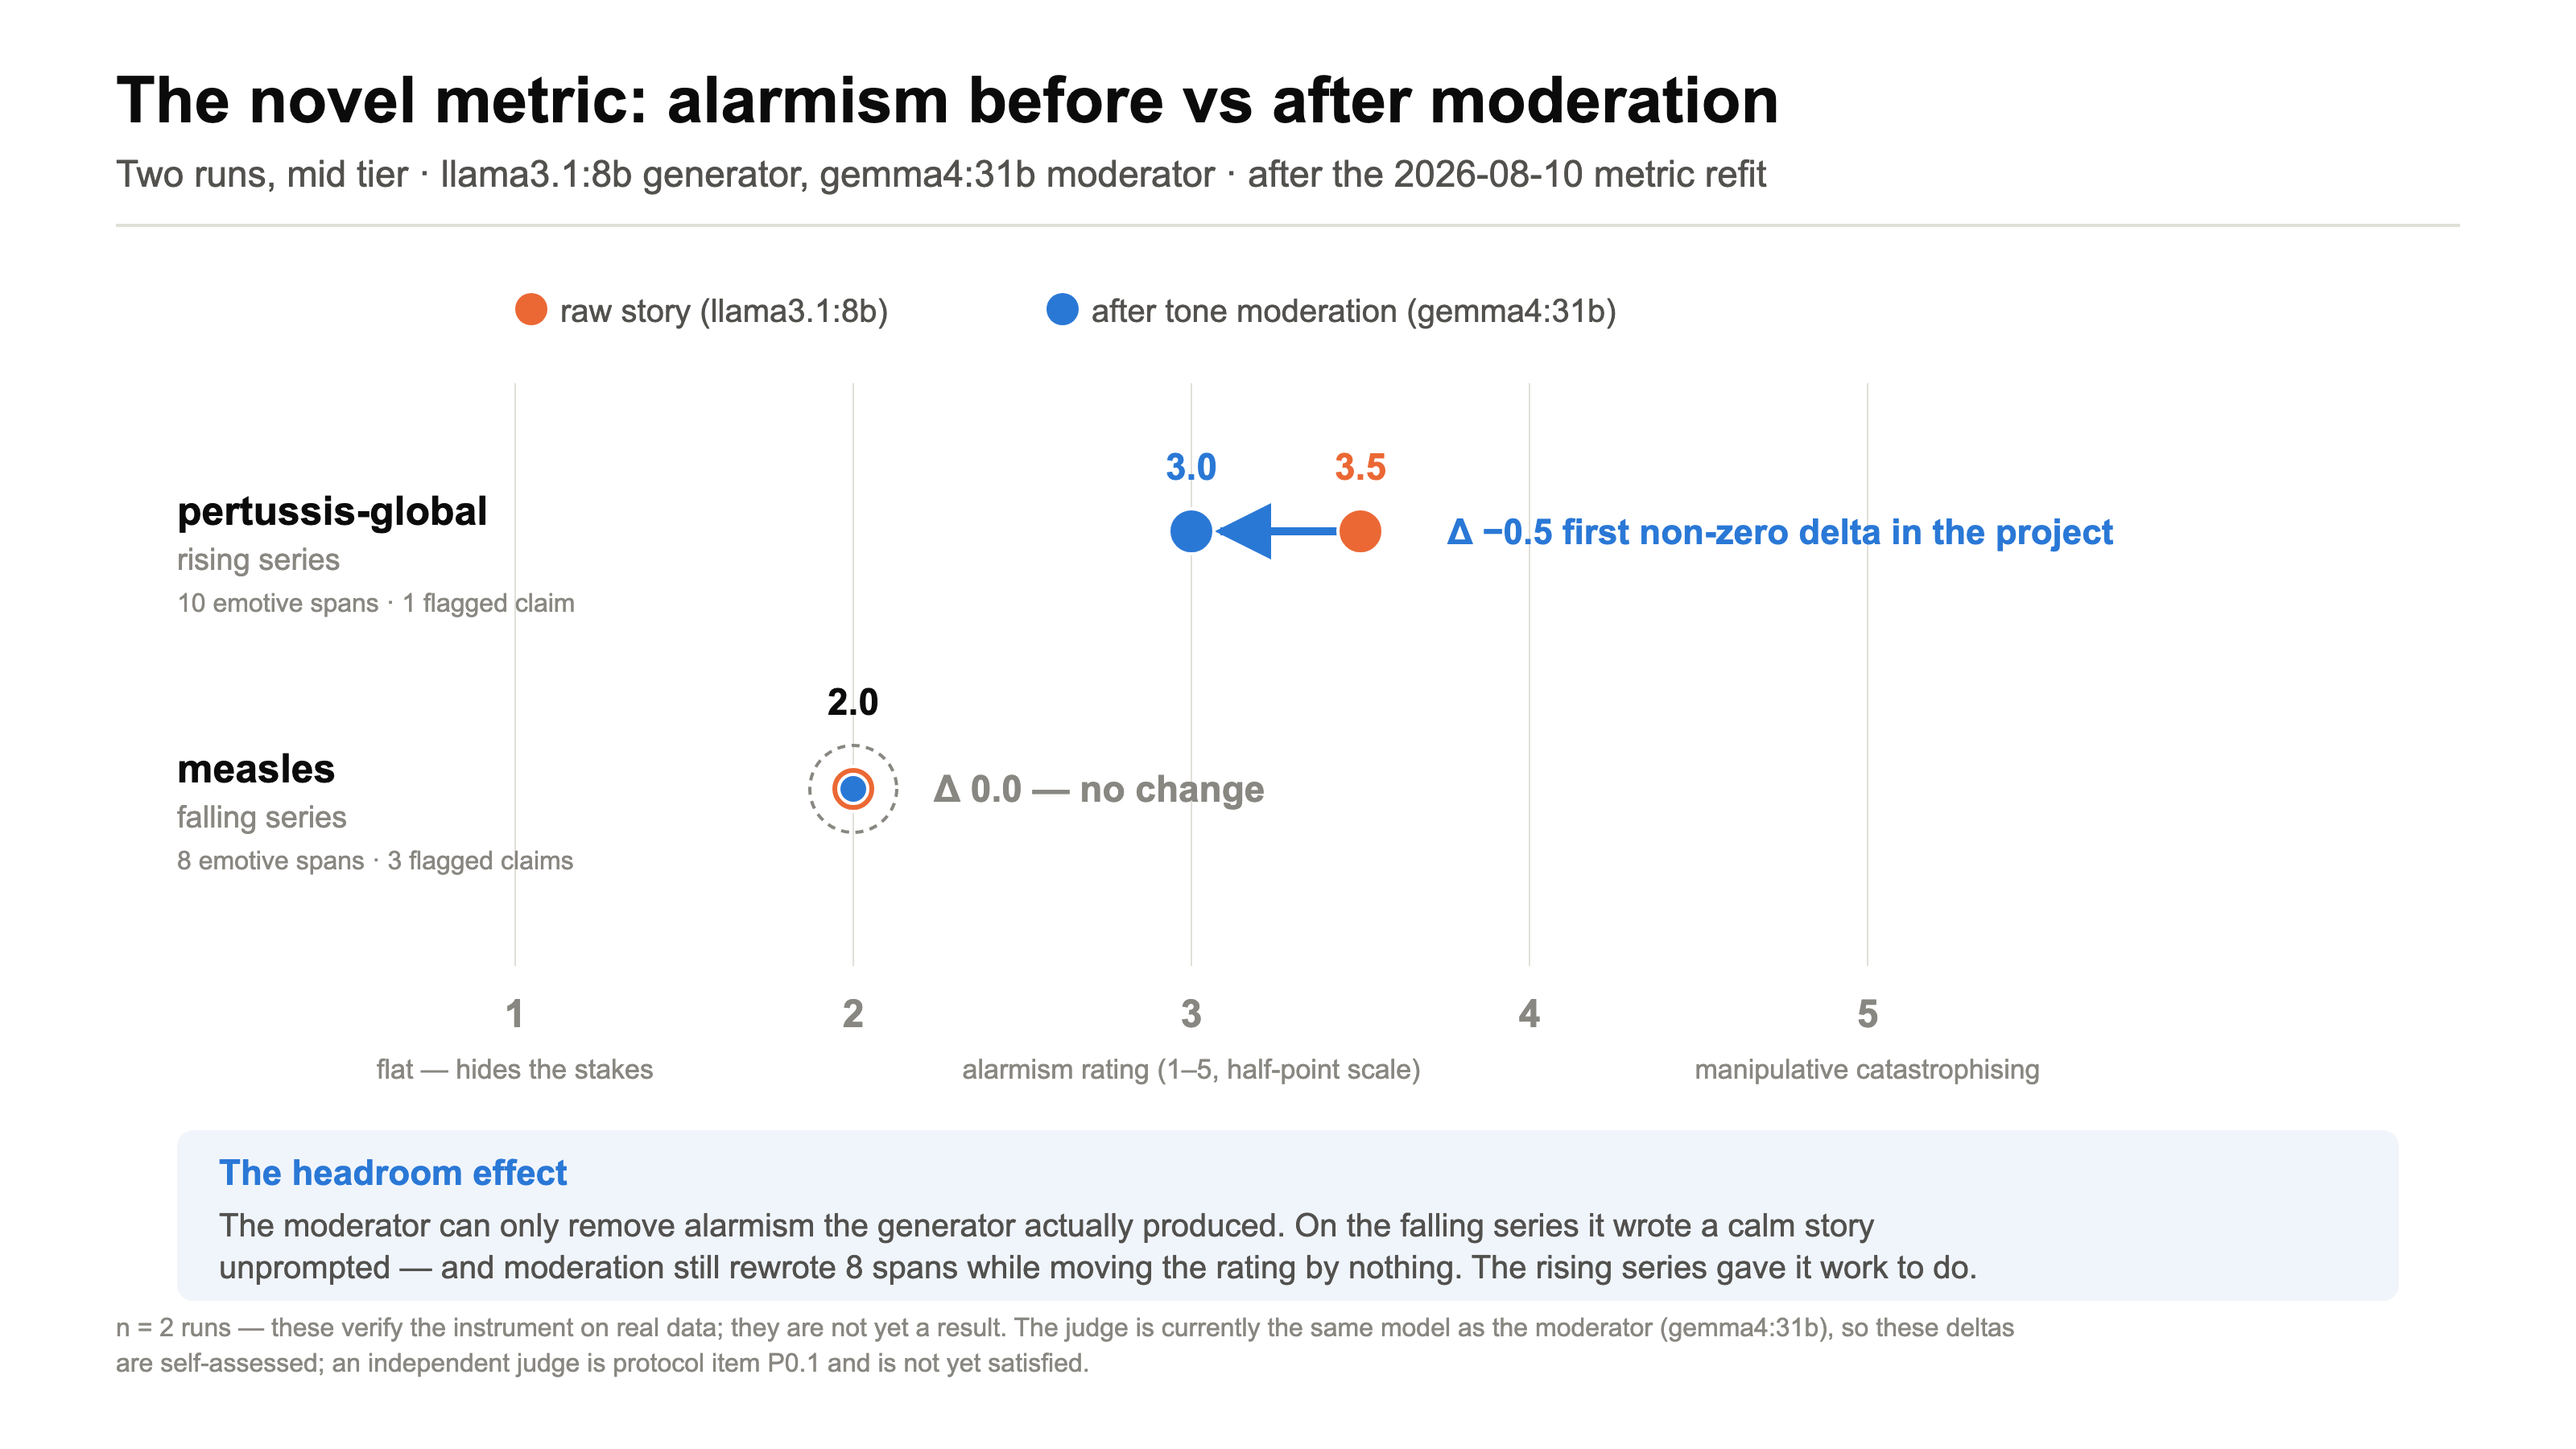
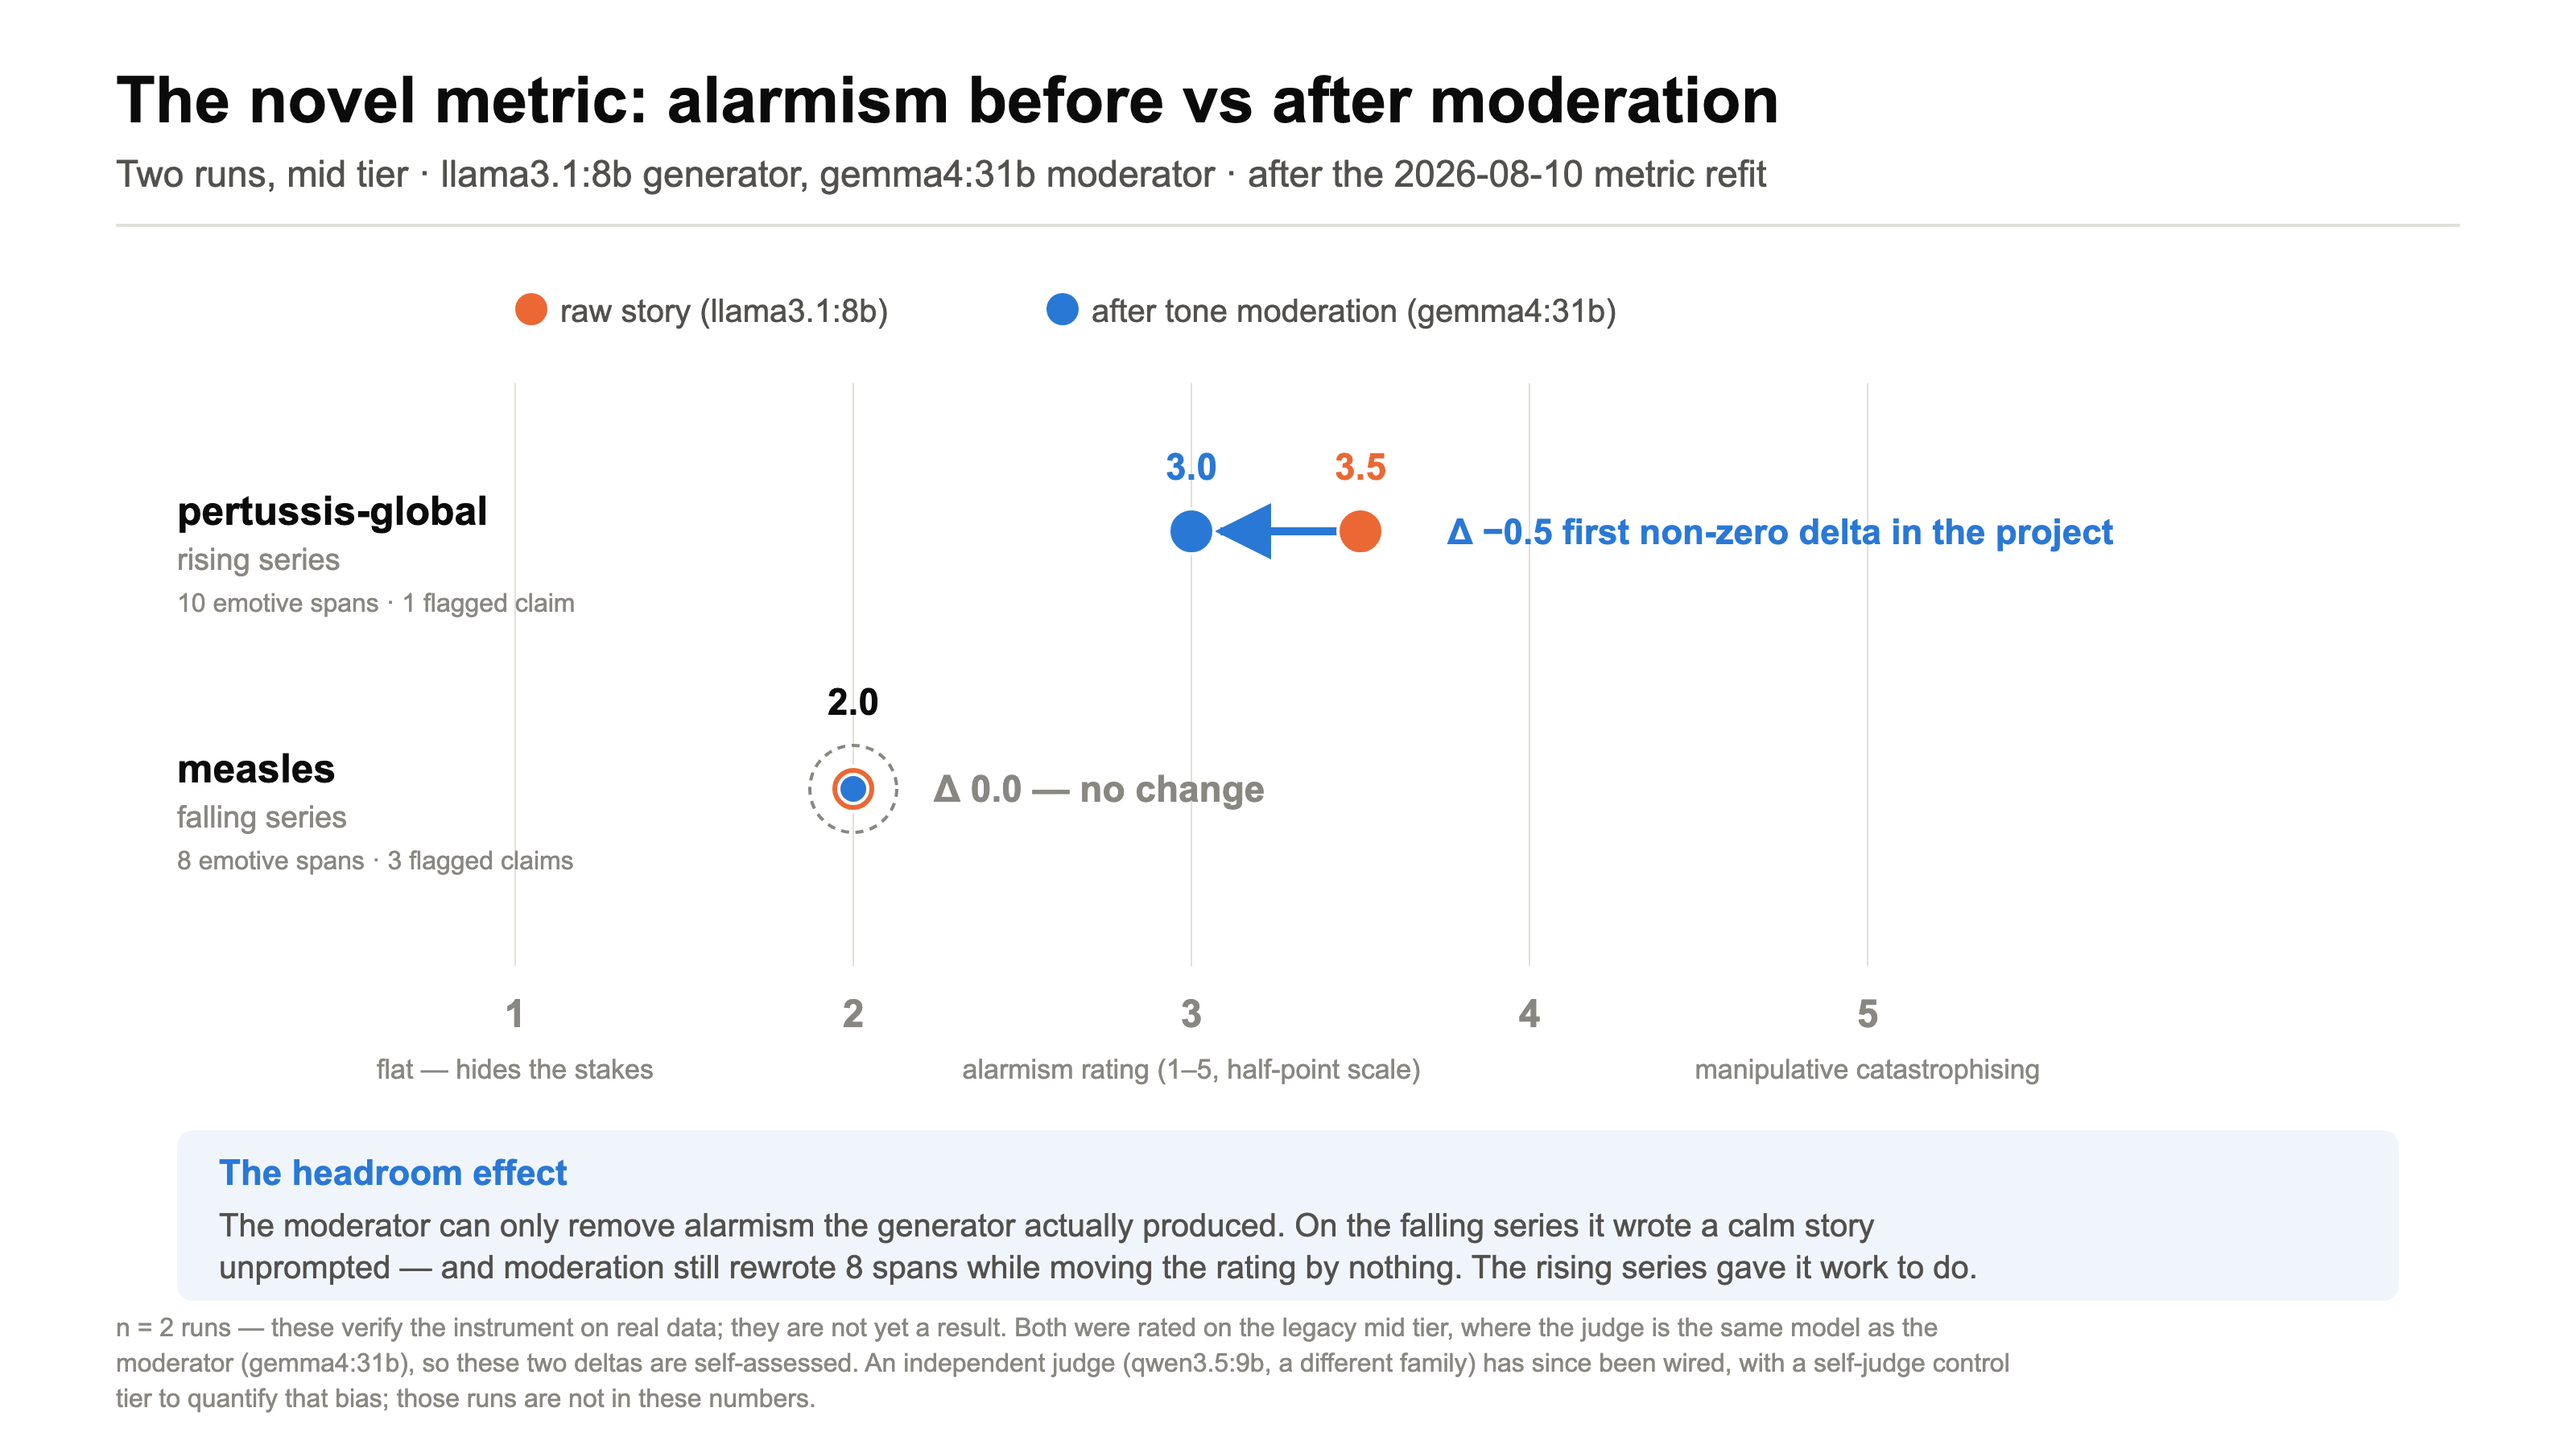
docs: bring the status figure up to date with the independent judge
fig6 showed judge validation as blocked. It is not: qwen3.5:9b now judges every
ladder tier, a different family from the gemma4 moderator, and the
m31b-selfjudge tier differs from g8b in exactly one thing so the gap between
them measures the self-assessment bias in the earlier numbers. Both have run
once; neither is in RESULTS.md yet, and the figure says so.

fig3's caveat now scopes the self-assessment to the two legacy mid-tier runs it
actually shows, rather than describing it as the project's current state.

No measured value changed - RESULTS.md is untouched.

Changed region(s): [[0.0312, 0.9022, 0.7812, 0.9956]]

diff --git a/presentation/figures/make_figures.py b/presentation/figures/make_figures.py
@@ -311,9 +311,10 @@ def fig3():
         "The novel metric: alarmism before vs after moderation",
         "Two runs, mid tier  ·  llama3.1:8b generator, gemma4:31b moderator  ·  after the 2026-08-10 metric refit",
         "\n".join(b),
-        footnote="n = 2 runs — these verify the instrument on real data; they are not yet a result. The judge is currently the "
-        "same model as the moderator (gemma4:31b), so these deltas are self-assessed; an independent judge is protocol item "
-        "P0.1 and is not yet satisfied.")
+        footnote="n = 2 runs — these verify the instrument on real data; they are not yet a result. Both were rated on the "
+        "legacy mid tier, where the judge is the same model as the moderator (gemma4:31b), so these two deltas are "
+        "self-assessed. An independent judge (qwen3.5:9b, a different family) has since been wired, with a self-judge "
+        "control tier to quantify that bias; those runs are not in these numbers.")
 
 
 # =========================================================================
@@ -439,9 +440,9 @@ def fig6():
         ("E2", "Rubric ablation", "ready", "is it the rubric or just\nthe parameter count?"),
         ("E3", "Specificity &\nidempotence", "ready", "re-moderating a moderated\nstory should change nothing"),
         ("E4", "Silent fact\ncorrection", "ready", "figures fixed without being\nflagged — falls out of E1"),
-        ("E5", "Generator ×\nmoderator scale", "ready", "can a strong moderator\nreplace generator scale?"),
+        ("E5", "Generator ×\nmoderator scale", "active", "7 ladder tiers defined,\n1B → 35B; first rung run"),
         ("E6", "Visual tone", "later", "depends on the\nchart-spec work"),
-        ("—", "Judge validation", "blocked", "judge == moderator today;\nneeds a distinct model"),
+        ("—", "Independent\njudge", "active", "qwen3.5:9b judge, different\nfamily; + self-judge control"),
         ("—", "Human baselines", "blocked", "25 LLM drafts written; the\nhuman track is still empty"),
         ("—", "User study", "later", "trust, engagement,\nreadability, preference"),
     ]
@@ -449,6 +450,7 @@ def fig6():
         "done":    (GOOD, "✓", "DONE"),
         "ready":   (BLUE, "▶", "READY TO RUN"),
         "blocked": (CRITICAL, "!", "BLOCKED"),
+        "active":  (WARNING, "◑", "RUNNING NOW"),
         "later":   (MUTED, "○", "AFTER THE ABOVE"),
     }
     cw, ch, gx, gy = 265, 196, 20, 22
@@ -471,17 +473,18 @@ def fig6():
 
     b.append(f'<rect x="96" y="656" width="1408" height="122" rx="10" fill="{WARNING}" fill-opacity="0.14"/>')
     b.append(txt(122, 694, "What has to happen before any tone number is citable", size=22, fill=INK, weight="bold"))
-    b.append(txt(122, 728, "1.  Pick a judge from a different model family than the moderator — today gemma4:31b grades its own rewrite, "
-                 "so every alarmism delta is self-assessed.", size=19, fill=INK_2))
-    b.append(txt(122, 758, "2.  Land the human baselines — without a reference, chrF++ and every similarity metric is undefined, and the "
-                 "1–5 scale has no anchor.", size=19, fill=INK_2))
+    b.append(txt(122, 728, "1.  The alarmism numbers on the previous slide predate the independent judge — they were self-assessed on the "
+                 "legacy tier, and will be re-measured.", size=19, fill=INK_2))
+    b.append(txt(122, 758, "2.  Land the genuine human baselines — the 25 drafts are model-authored and labelled as such, so similarity "
+                 "against them measures distance to Claude text.", size=19, fill=INK_2))
 
     return frame(
         "Where the experiments stand tonight",
-        "The instruments are built and verified on real data. The measurements come next.",
+        "The instruments are built and verified on real data. As of today the ladder runs have started.",
         "\n".join(b),
-        footnote="Protocol: EXPERIMENT_PLAN.md plus Addendum A (scale, prompting, time-series metrics). E0 parameters, "
-        "prompts, hashes, stage timings and full texts are committed in experiments/e0-metric-refit.json.")
+        footnote="Protocol: EXPERIMENT_PLAN.md plus Addendum A. Model roster and tier table: experiments/MODELS.md. The "
+        "m31b-selfjudge tier differs from g8b in exactly one thing — who judges — so the gap between them measures the "
+        "self-assessment bias in the earlier numbers. Neither is in RESULTS.md yet.")
 
 
 # =========================================================================

diff --git a/presentation/figures/README.md b/presentation/figures/README.md
@@ -58,7 +58,8 @@ alone under-describes what the agent does.
 Alarmism 1–5, before and after. On the rising pertussis series 3.5 → 3.0, the first non-zero
 delta in the project. On the falling measles series nothing moved — the honest finding: the
 moderator can only remove alarmism the generator actually produced.
-→ Say both caveats out loud: **n = 2**, and **the judge is the same model as the moderator**.
+→ Say both caveats out loud: **n = 2**, and **these two runs were self-judged** (legacy `mid`
+tier, judge = moderator = gemma4:31b). An independent judge is now wired — see fig6.
 
 **fig4 — Groundedness.** *(Speaker 3, ~60 s)*
 The strongest slide. The raw measles story stated 4 figures and 2 were unsupported; the
@@ -67,8 +68,11 @@ data-bound. Computed in Python against the evidence pack — no model in the loo
 not exposed to the judge caveat above.
 
 **fig6 — Where the experiments stand.** *(Speaker 3, ~45 s, hands over to the demo)*
-Instruments built and verified; E1–E6 specified and ready to run; two things blocked and we
-name them ourselves — an independent judge, and the human baselines. Then hand to the demo.
+Instruments built and verified. As of today the ladder runs have started: an independent judge
+(`qwen3.5:9b`, a different family from the gemma4 moderator) is wired on every new tier, and an
+`m31b-selfjudge` control tier differs from `g8b` in exactly one thing — who judges — so the gap
+between them *measures* how inflated the earlier self-judged numbers were. Still genuinely open:
+the human baselines. Then hand to the demo.
 
 **fig7 — The hardware ceiling.** *(held back for Q&A)*
 32 GB, ~22 GB usable, the two big models total 43.8 GB, so every run is load → infer → evict
@@ -80,7 +84,7 @@ Most answers are a figure you already showed — jump back to it rather than des
 
 | If asked | Go to | The answer |
 |---|---|---|
-| "Isn't the judge grading its own rewrite?" | `fig4` | Yes — known defect, protocol item P0.1. Then: groundedness has no judge in it. |
+| "Isn't the judge grading its own rewrite?" | `fig6`, `fig4` | It was, on the runs shown — and we fixed it: independent judge plus a self-judge control that quantifies the old bias. Also: groundedness has no judge in it at all. |
 | "n = 2, why believe any of it?" | `fig1`, `fig2` | You shouldn't yet. The reproductions (n = 100, n = 30) carry the evidence. |
 | "Where are the human baselines?" | `fig6` | 25 model-drafted reference stories with provenance; the human track is deliberately empty. |
 | "Why so slow / why local models?" | `fig7` | The only unshown figure. 43.8 GB of models, 22 GB of usable memory. |
